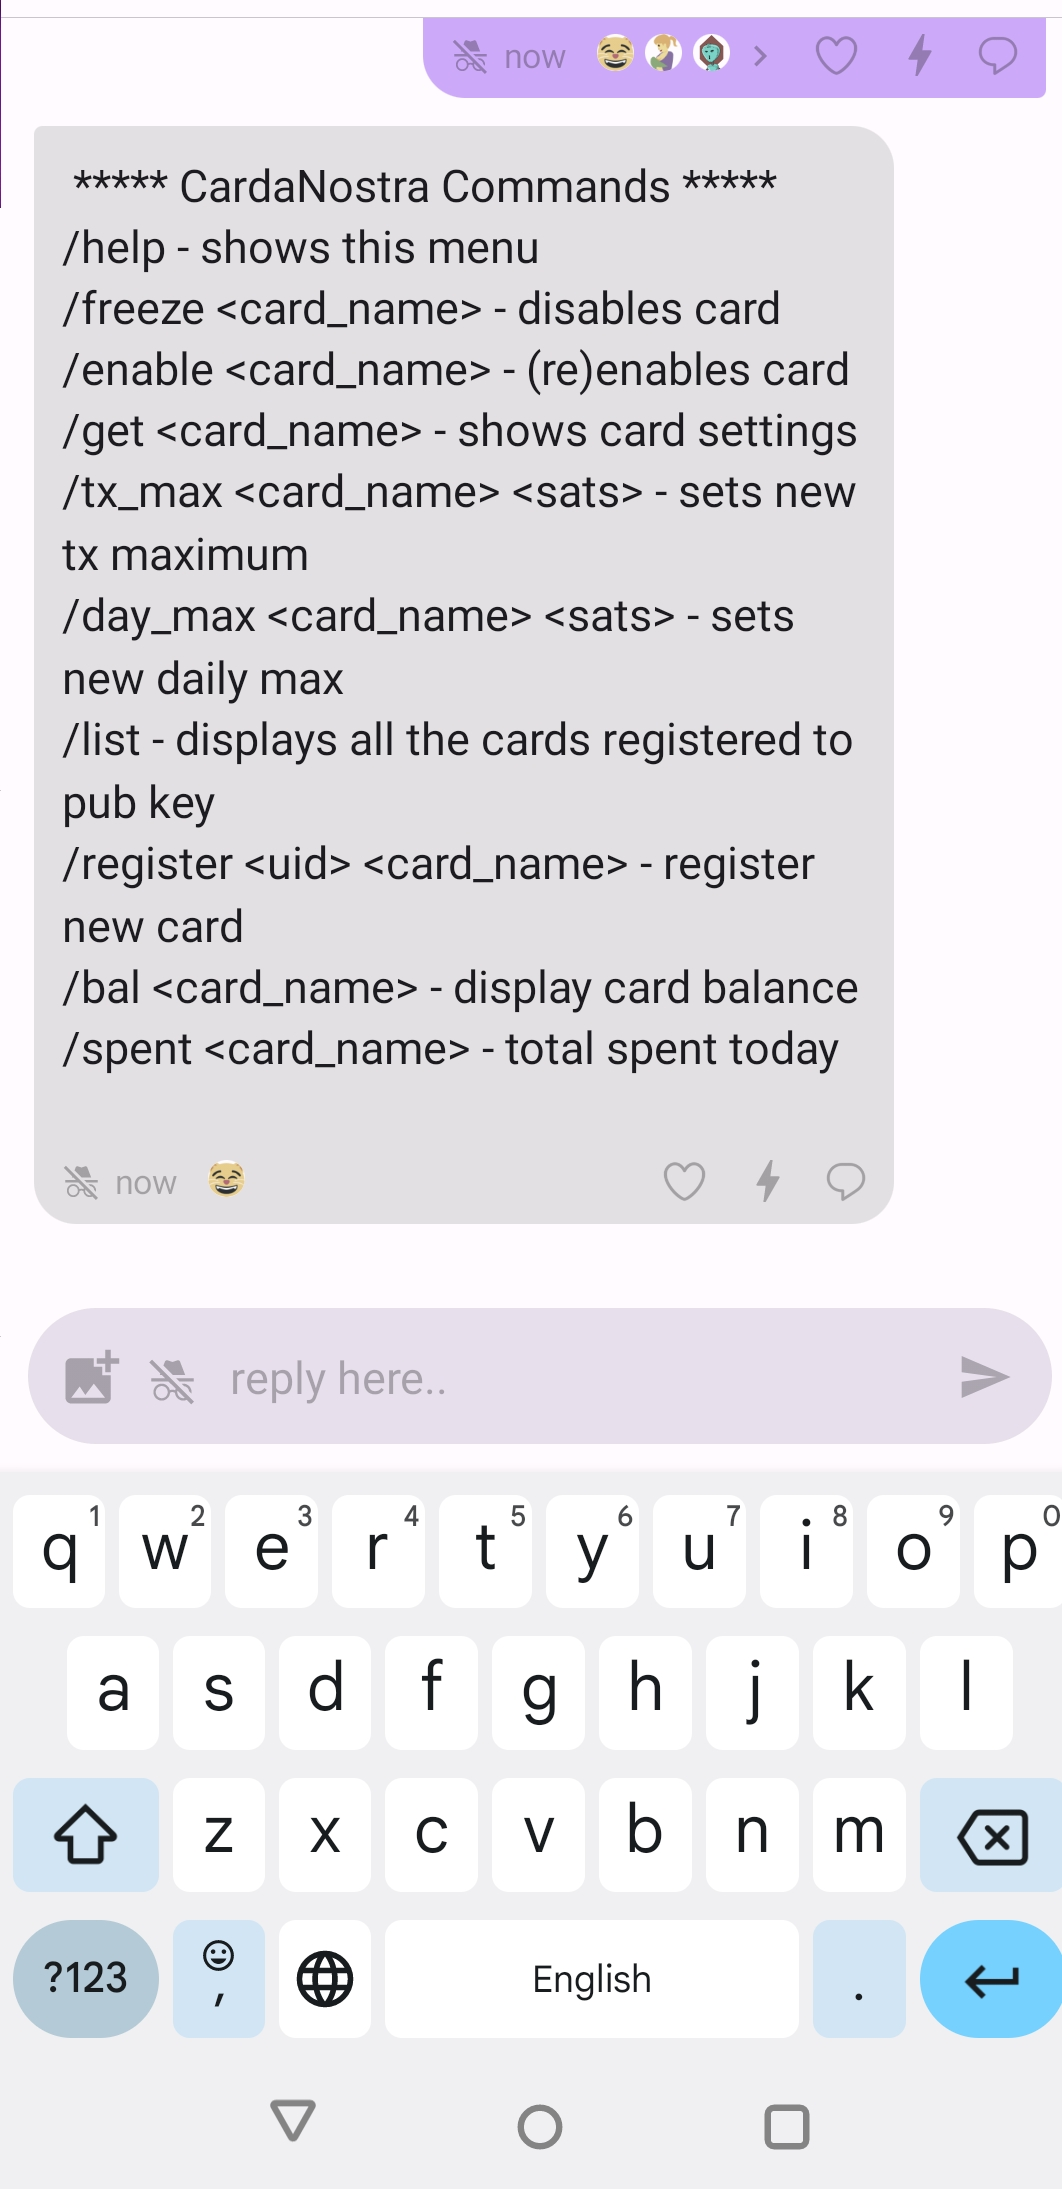
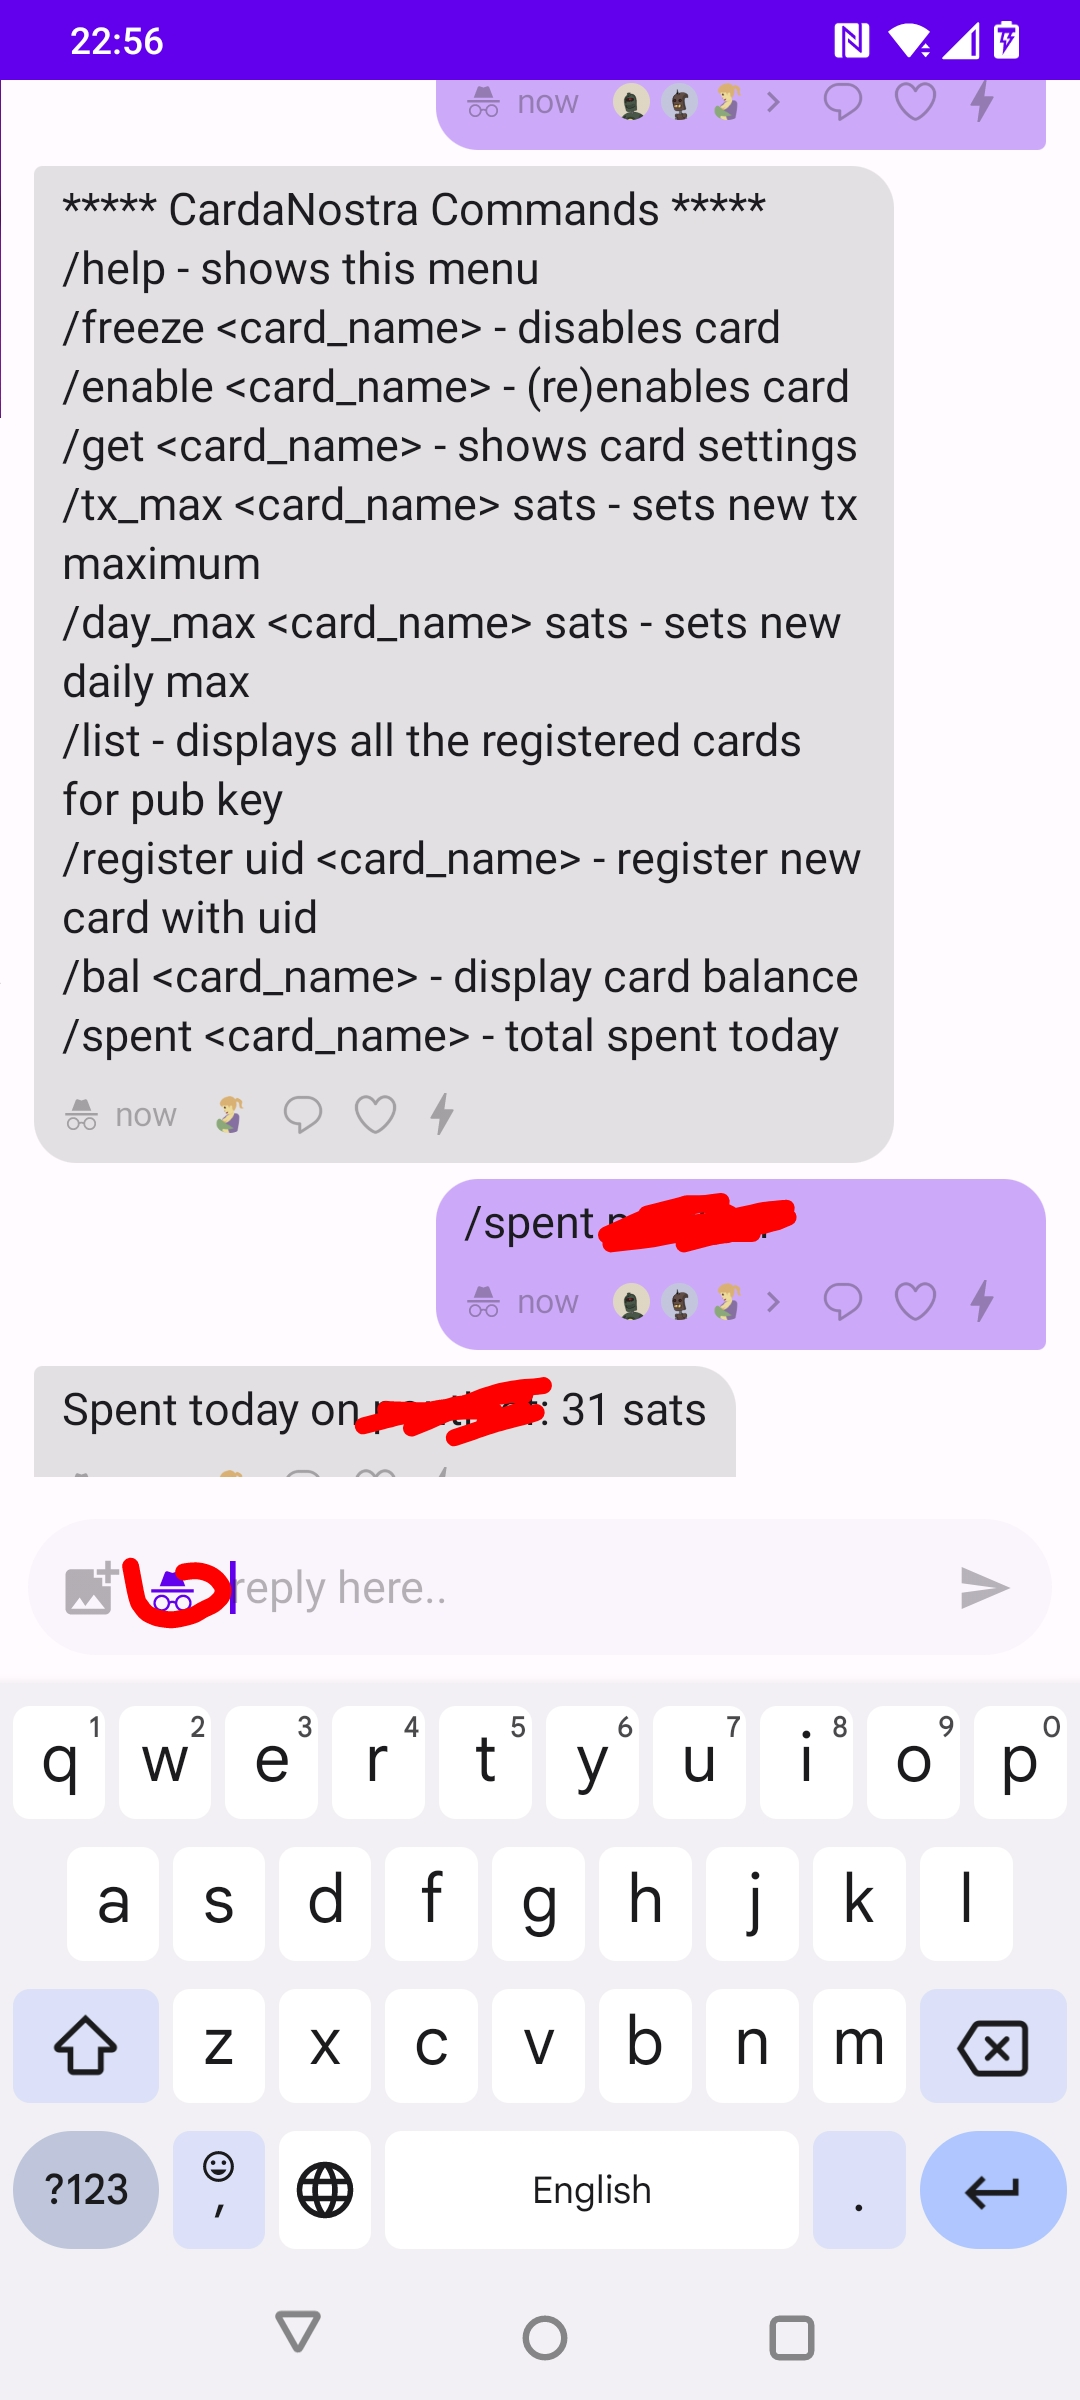
update Readme; new jpg

diff --git a/README.md b/README.md
@@ -7,7 +7,7 @@ It requires that the [BoltCards Extension](https://github.com/lnbits/boltcards) 
 Once BoltCard(s) are added via BoltCards Extension, Administrator account can:
 - Add a Nostr Account which will act as a Bot handling requests from the users with BoltCards
 - Link BoltCard to user's Nostr account so that the card/account are authorised to communicate with the Bot
-- Add Nostr Relays so that NIP-04 messages between Bot and BoltCard user's Nostr account can be sent
+- Add Nostr Relays so that NIP59 messages between Bot and BoltCard user's Nostr account can be sent
 
 
 ## Add Main Nostr Account
@@ -30,8 +30,8 @@ Once BoltCard(s) are added via BoltCards Extension, Administrator account can:
     - Enter Card Name - this is the name that the user would like his card to be known as i.e. MyLnBitsBoltCard
     - Enter NPub - this is Public Key for the Nostr Account that also "owns" the card and wishes to control it via Bot
     
-Once all 3 items are added into LNbits users with cards who are following LNbits Nostr account will be able to manage their cards by sending direct encrypted messages:
+Once all 3 items are added into LNbits, users with cards who are following LNbits Nostr account will be able to manage their cards by sending [NIP59](https://github.com/nostr-protocol/nips/blob/master/59.md) GiftWrap messages.
+For sending/receiving GiftWrap messages between client and Bot, clients will have to *enable Incognito mode* in their Nostr apps - see image below 
 <p float="left">
 <img src= "https://github.com/ponthief/cardanostra/blob/main/static/cardanostra_menu.jpg" width="300" height="575">
-<img src= "https://github.com/ponthief/cardanostra/blob/main/static/cardanostra_commands.jpg" width="300" height="575">
 </p>
